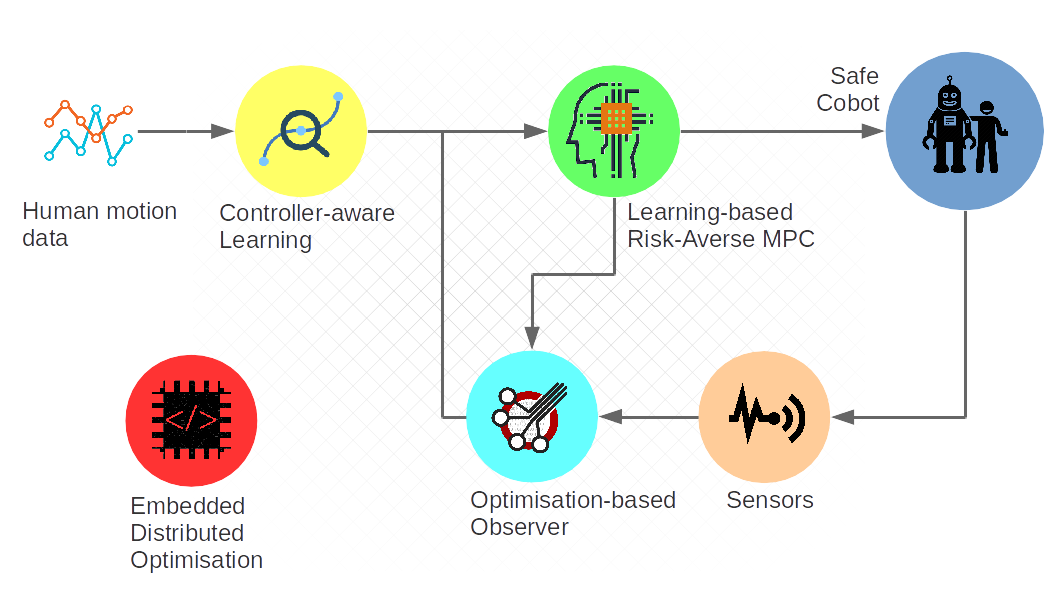
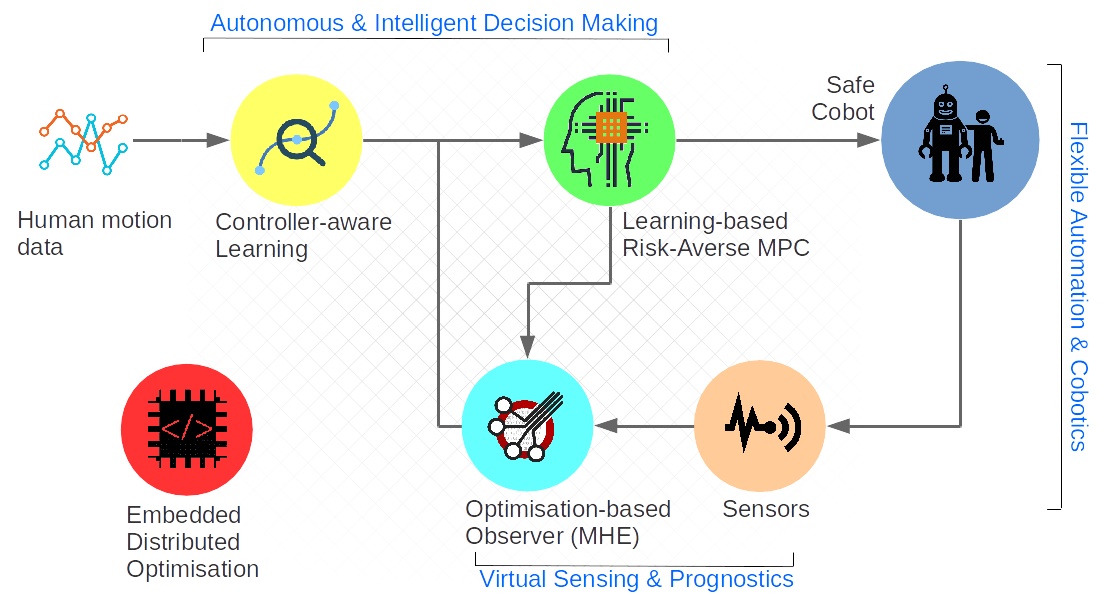
:boom: semi-final version added research themes roboto cautious

Changed region(s): [[0.0, 0.0303, 0.9981, 0.9983], [0.0936, 0.5748, 0.2495, 0.9681]]

diff --git a/research/index.html b/research/index.html
@@ -74,6 +74,40 @@
         <div style="margin-top: 0.35em; text-align:center; font-size: 0.9em">Queen's University Belfast</div>
       </section>
 
+      <section>
+        <h2>About me</h2>
+        <table style="margin-top: 2.0em; " width="1100px">
+          <tr>
+            <td style="vertical-align: top;" width="520px">
+              <div>
+                <h3>Education</h3>
+                <ul>
+                  <li>PhD, Control Theory, NTU Athens</li>
+                  <li>ITN Fellowship, HMGU, Munich</li>
+                  <li>MSc, Applied Math., NTU Athens</li>
+                  <li>Dipl End, Chem. Eng., NTU Athens</li>
+                </ul>
+              </div>
+            </td>
+            <td style="vertical-align: top;" width="500px">
+              <div>
+                <h3>Six years postdoc experience</h3>
+                <ul>
+                  <li>Luleå Technical Uni., Sweden</li>
+                  <li>University of Cyprus</li>
+                  <li>KU Leuven, Belgium</li>
+                  <li>IMT Lucca, Italy</li>
+                </ul>
+              </div>
+            </td>
+          </tr>
+        </table>
+        <div style="margin-top: 1em">
+          <span class="bold">Research:</span> Stochastic model predictive <span class="italix" style="color:teal">control</span>
+          and fast <span class="italix" style="color:teal">numerical optimisation</span>
+          for <span class="italix" style="color:teal">autonomous systems</span>
+        </div>
+      </section>
 
       <!-- 
         
@@ -138,6 +172,21 @@
         <div style="margin-top: 10%; font-size:1em; text-align: center; color: white">
           Risk-averse Model Predictive Control
         </div>
+      </section>
+
+      <section>
+        <h2>Safe Learning-based Control</h2>
+        <table style="width:100%; margin-top: 1.0em">
+          <tr>
+            <td style="vertical-align: middle">
+              <img src="../img/walk.gif" width="550" />
+            </td>
+            <td style="vertical-align: middle">
+              <img id="flipped_roboto_cautious" src="../img/roboto_cautious.gif" alt="mr_roboto cautious" style="width: 350pt" />
+            </td>
+          </tr>
+        </table>
+
       </section>
 
       <section>
@@ -557,6 +606,7 @@
       <section>
         <h2>Embedded Nonconvex Optimisation</h2>
         <div style="margin-top: 2.3em"></div>
+
         <div id="first-idea-container">
           <div id="first-idea-text">
             <span class="bold">IDEA #1.</span> An averaged algorithm that takes convex combinations of
@@ -571,36 +621,29 @@
         </div>
         <div style="margin-top: 3em"></div>
         <div id="second-idea-container" class="fragment" data-fragment-index="1">
-          <div class="sub-header-separator"></div>
-          <div id="second-idea-text">
-            <span class="bold">IDEA #2.</span> A <span class="bold">globalisation</span> of the above
-            algorithm using a real-valued continuous merit function - the forward-backward envelope.
-          </div>
+          <table style="margin-top: 2.0em; " width="100%">
+            <tr>
+              <td style="vertical-align: top;" width="350px">
+                <div class="centered">
+                  <img src="../img/fbe.png" width="300" />
+                </div>
+              </td>
+              <td style="vertical-align: top;" width="650px">
+                <div class="sub-header-separator"></div>
+                <div id="second-idea-text">
+                  <span class="bold">IDEA #2.</span> A <span class="bold">globalisation</span> of the above
+                  algorithm using a real-valued continuous merit function - the forward-backward envelope.
+                </div>
+              </td>
+            </tr>
+          </table>
+
         </div>
         <div class="footnote">
           L. Stella, A. Themelis, P. Sopasakis and P. Patrinos,
           <span class="italix">et al.</span>, "A simple and efficient algorithm for nonlinear model predictive
-          control," IEEE CDC, 2017. <br /> A.S Sathya, P Sopasakis, <span class="italix">et al.</span>
-          <span class="italix">et al.</span>, "Embedded nonlinear model predictive control for obstacle avoidance using
-          PANOC,"
-          IEEE ECC, 2018.
-        </div>
-      </section>
-
-
-      <section>
-        <h2>Forward-Backward Envelope</h2>
-        <div class="sub-header-separator"></div>
-        <div class="centered">
-          <img src="../img/fbe.png" width="630" />
-        </div>
-        <div class="footnote">
-          L. Stella, A. Themelis, P. Sopasakis and P. Patrinos,
-          <span class="italix">et al.</span>, "A simple and efficient algorithm for nonlinear model predictive
-          control," IEEE CDC, 2017. <br /> A.S Sathya, P Sopasakis, <span class="italix">et al.</span>
-          <span class="italix">et al.</span>, "Embedded nonlinear model predictive control for obstacle avoidance using
-          PANOC,"
-          IEEE ECC, 2018.
+          control," IEEE CDC, 2017. <br /> A.S Sathya, P Sopasakis, <span class="italix">et al.</span>,
+          "Embedded nonlinear model predictive control for obstacle avoidance using PANOC," IEEE ECC, 2018.
         </div>
       </section>
 

diff --git a/index.html b/index.html
@@ -1,67 +1,59 @@
-<!doctype html>
-<html lang="en">
+<!DOCTYPE html>
+<html lang="en-US">
 
 <head>
-    <meta charset="utf-8">
+    <meta charset="UTF-8">
+    <meta http-equiv="X-UA-Compatible" content="IE=edge">
+    <meta name="viewport" content="width=device-width, initial-scale=1">
 
-    <!--
-  Copyright 2019 Pantelis Sopasakis
+    <!-- Begin Jekyll SEO tag v2.5.0 -->
+    <title>PID 101 - simulator | qub</title>
+    <meta name="generator" content="Jekyll v3.7.4" />
+    <meta property="og:title" content="PID 101 - simulator" />
+    <meta property="og:locale" content="en_US" />
+    <link rel="canonical" href="https://alphaville.github.io/qub/" />
+    <meta property="og:url" content="https://alphaville.github.io/qub/matlab/" />
+    <meta property="og:site_name" content="qub" />
+    <script type="application/ld+json">
+{"@type":"WebPage","headline":"PID 101 - simulator","url":"https://alphaville.github.io/qub/matlab/","@context":"http://schema.org"}</script>
+    <!-- End Jekyll SEO tag -->
 
-  This work is licensed under the Attribution 4.0 International CC licence 
-  (see https://creativecommons.org/licenses/by/4.0/)
-
-  You are free to:
-    Share — copy and redistribute the material in any medium or format
-    Adapt — remix, transform, and build upon the material
-    for any purpose, even commercially.
-
-  The licensor cannot revoke these freedoms as long as you follow the license terms.
-
-  Under the following terms:
-    Attribution — You must give appropriate credit, provide a link to the license, 
-    and indicate if changes were made. You may do so in any reasonable manner, but 
-    not in any way that suggests the licensor endorses you or your use.
-
-    No additional restrictions — You may not apply legal terms or technological measures
-     that legally restrict others from doing anything the license permits.
-
-  Notices:
-    You do not have to comply with the license for elements of the material in the public 
-    domain or where your use is permitted by an applicable exception or limitation.
-
-    No warranties are given. The license may not give you all of the permissions necessary 
-    for your intended use. For example, other rights such as publicity, privacy, or moral 
-    rights may limit how you use the material.
-
-  -->
-
-    <title>P. Sopasakis - QUB</title>
-
-    <meta name="viewport" content="width=device-width">
-    <link rel="stylesheet" href="../lib/css/include_fonts.css">
-
-
-
+    <link rel="stylesheet" href="/qub/assets/css/style.css?v=577b0a07cf616049b993d9a1f127d3055f4e229b">
 </head>
 
 <body>
-    <h1>Queen's University Belfast</h1>
-    <h2>Pantelis Sopasakis</h2>
-    <div id="main-container">
-        Presentations:
+    <div class="container-lg px-3 my-5 markdown-body">
+
+        <h1>Queen's University Belfast</h1>
+
+
+        <h2 id="pid-101---simulator">Pantelis Sopasakis</h2>
+
+
+        <h3 id="download">Presentations</h3>
         <ul>
-            <li><a href="pid-101/index.html">PID controller and its software implementation</a></li>
-            <li><a href="research/index.html">Optimisation, Control and Learning for Safe Intelligent Cobots</a></li>
+            <li><a href="pid-101/index.html">The PID controller and its software implementation</a></li>
+            <li><a href="research/index.html">Optimisation, Control and Learning Ensembles for Safe Intelligent Cobots</a></li>
         </ul>
 
-        Additional material:
+
+        <h3 id="about">Additional material</h3>
+
+
         <ul>
             <li><a href="PIDLectureGoals/pid-lecture-goals.pdf">Lecture description</a></li>
             <li><a href="matlab/">MATLAB code</a></li>
             <li><a href="Homework/pid-homework.pdf">Homework</a></li>
             <li><a href="Quiz/pid-quiz.pdf">Quiz questions in PDF</a></li>
         </ul>
+
+
+
     </div>
+    <script src="https://cdnjs.cloudflare.com/ajax/libs/anchor-js/4.1.0/anchor.min.js" integrity="sha256-lZaRhKri35AyJSypXXs4o6OPFTbTmUoltBbDCbdzegg="
+        crossorigin="anonymous"></script>
+    <script>anchors.add();</script>
+
 </body>
 
 </html>

diff --git a/pid-101/index.html b/pid-101/index.html
@@ -228,12 +228,12 @@
         data-background-video-muted="true">
       </section>
 
-      <section data-background-video="../mov/P/P_K0.2.mp4" data-background-video-loop="loop" data-background-size="contain"
+      <!-- <section data-background-video="../mov/P/P_K0.2.mp4" data-background-video-loop="loop" data-background-size="contain"
         data-background-video-muted="true" data-background-opacity="var(--bck_opacity)">
         <div style="margin-top: 20%; font-size:2em; color:black; text-align:center;">
           Unacceptable!
         </div>
-      </section>
+      </section> -->
 
       <section data-background-image="../img/p_gains.jpg" data-background-size="contain">
       </section>
@@ -326,23 +326,7 @@
       <section data-background-image="../img/pd_gains_sweet_spot.jpg" data-background-size="contain">
       </section>
 
-      <section data-background-image="../img/pd_gains_sweet_spot.jpg" data-background-size="contain"
-        data-background-opacity="var(--bck_opacity)">
-        <div style="margin-top: 15%; font-size:2em; color:black; text-align:center;">
-          $K_d$: too low $\Rightarrow$ Underdamped
-        </div>
-        <div style="margin-top: 1em; font-size:1em; color:black; text-align:center;">
-          (oscillatory behaviour)
-        </div>
-        <div class="fragment">
-          <div style="margin-top: 1em; font-size:2em; color:black; text-align:center;">
-            $K_d$: too high $\Rightarrow$ Overdamped
-          </div>
-          <div style="margin-top: 1em; font-size:1em; color:black; text-align:center;">
-            (sluggish behaviour)
-          </div>
-        </div>
-      </section>
+
 
       <section data-background-image="../img/pd_gains_Kp_effect.jpg" data-background-size="contain">
       </section>
@@ -602,7 +586,7 @@
                 <div style="font-size: 0.7em">
                   <span class="bold">PID controller:</span>
                   <ul>
-                    <li>P: drives error to 0</li>
+                    <li>P: proportional control action</li>
                     <li>D: suppresses oscillations</li>
                     <li>I: eliminates offset</li>
                   </ul>

diff --git a/lib/css/presentation.css b/lib/css/presentation.css
@@ -146,7 +146,7 @@ body {
 }
 
 /* flips and image (works for GIFs) */
-.reveal #flipped_roboto, .reveal #flipped_phd{
+.reveal #flipped_roboto, .reveal #flipped_phd, .reveal #flipped_roboto_cautious{
   -moz-transform: scaleX(-1);
   -o-transform: scaleX(-1);
   -webkit-transform: scaleX(-1);
